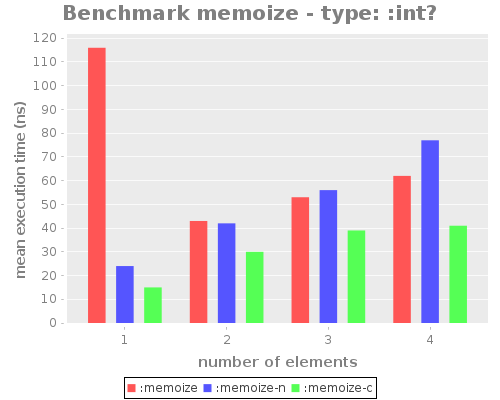
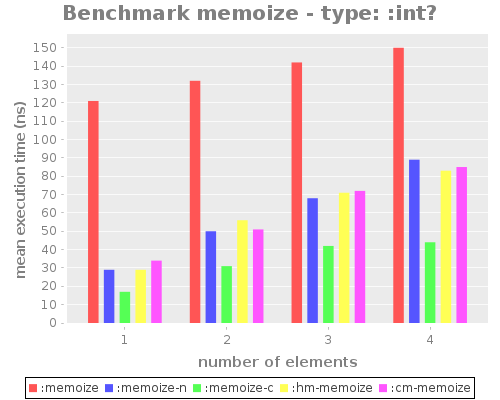
Update results for new memoize implementations

diff --git a/doc/results.md b/doc/results.md
@@ -236,8 +236,11 @@ memoize was tested against an inlining implementation using a clojure atom
 
 Different implementation are faster depending on the type of the memoized
 arguments:
-- `memoize-n` is better when all arguments are keywords or symbols.
+- `memoize`: core.memoize, always slower
+- `memoize-n` is better when all arguments are keywords.
 - `memoize-c` is better for any other case.
+- `hm-memoize` is faster than `memoize` but slower than `memoize-c`.
+- `cm-memoize` is faster than `memoize` but slower than `memoize-c`.
 
 #### By number of arguments
 
@@ -247,9 +250,11 @@ arguments:
 
 #### By type of arguments
 
-| ![](images/memoize_type_keys_int-p.png) | ![](images/memoize_type_keys_keyword-p.png) |
-| :---:                               | :---:                               |
-| ![](images/memoize_type_keys_map-p.png) |  |
+| ![](images/memoize_type_keys_int-p.png)    | ![](images/memoize_type_keys_keyword-p.png) |
+| :---:                                      | :---:                                       |
+| ![](images/memoize_type_keys_map-p.png)    | ![](images/memoize_type_keys_string-p.png)  |
+|                                            |                                             |
+| ![](images/memoize_type_keys_symbol-p.png) |                                             |
 
 ### assoc-in
 
